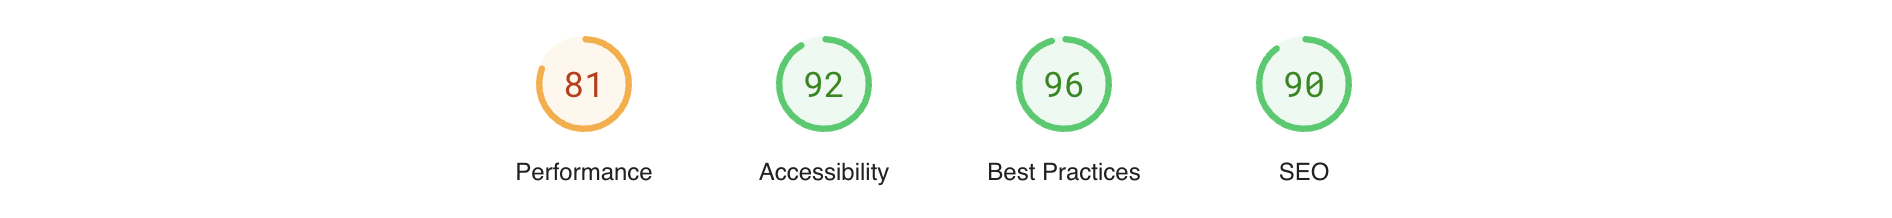
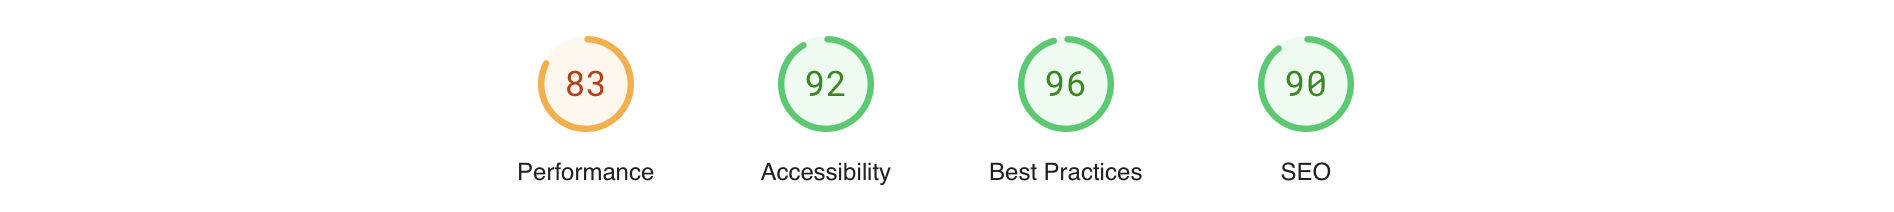
add lighthouse reports

diff --git a/data/contact/about-this-website.md b/data/contact/about-this-website.md
@@ -31,7 +31,7 @@ Powered by [Vercel](https://vercel.com/), this website enjoys swift and hassle-f
 
 ### Speed Insights
 
-In building this website, I really paid attention to all aspects related to performance and SEO. Therefore, I'll display the website performance report on this page, and it will always be updated periodically.
+In building this website, I really paid attention to all aspects related to performance and SEO. Therefore, I'll display the website performance report on this page, and it will always be updated periodically. The performance report is generated using [Lighthouse](https://developers.google.com/web/tools/lighthouse) and [PageSpeed Insights](https://developers.google.com/speed/pagespeed/insights).
 
 #### Lighthouse Report (Desktop)
 
